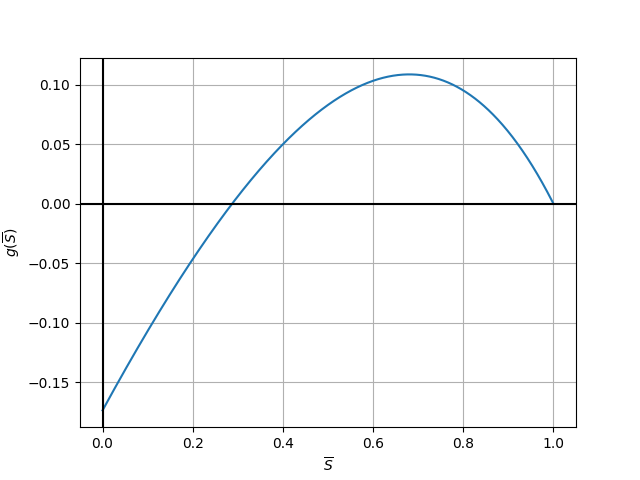
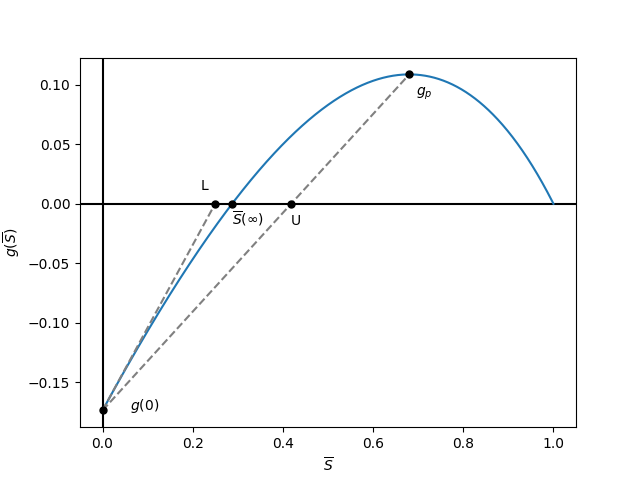
final size

diff --git a/FinalSize.py b/FinalSize.py
@@ -2,6 +2,17 @@ import numpy as np
 import matplotlib.pyplot as plt
 
 
+def zero_searcher(f, left, right):
+	mid = (left + right) / 2
+	for _ in range(20):
+		if f(mid) < 0:
+			left = mid
+		else:
+			right = mid
+		mid = (left + right) / 2
+	return mid
+
+
 def g_plotter():
 	beta = 0.25
 	gamma = 1 / 14
@@ -12,19 +23,40 @@ def g_plotter():
 	def g(S):
 		ret = S - np.exp(-phi * beta / gamma * (1 - S))
 		return ret
+
 	gs = []
 	for S in S_range:
 		gs.append(g(S))
 
+	S_peak = gamma / (phi * beta) * np.log(gamma / (phi * beta)) + 1
+	g_peak = g(S_peak)
+	g_0 = g(0)
+	S_inf = zero_searcher(g, 0, S_peak)
+	upper_bound = (phi * beta + gamma * np.log(gamma / (phi * beta))) / \
+				  (phi * beta + gamma * np.exp(phi * beta / gamma) * ((phi * beta) / gamma - 1 + np.log(
+					  gamma / (phi * beta))))
+	lower_bound = gamma / (np.exp(phi * beta / gamma) * gamma - phi * beta)
+
 	fig = plt.figure()
 	ax1 = fig.add_subplot()
-	ax1.plot(S_range, gs)
 	# ax1.set_aspect('equal')
-	# ax1.set_ylim(-0.3, 0.3)
-	ax1.grid(True, which='both')
-
+	# ax1.grid(True, which='both')
 	ax1.axhline(y=0, color='k')
 	ax1.axvline(x=0, color='k')
+	ax1.plot(S_range, gs)
+	ax1.plot([0, S_peak], [g_0, g_peak], linestyle='--', c='grey')
+	ax1.plot([0, lower_bound], [g_0, 0], linestyle='--', c='grey')
+	ax1.plot(S_peak, g_peak, marker='o', c='k', markersize=5)
+	ax1.plot(0, g_0, marker='o', c='k', markersize=5)
+	ax1.plot(S_inf, 0, marker='o', c='k', markersize=5)
+	ax1.plot(upper_bound, 0, marker='o', c='k', markersize=5)
+	ax1.plot(lower_bound, 0, marker='o', c='k', markersize=5)
+	ax1.annotate(r'$g_p$', (S_peak, g_peak), textcoords="offset points", xytext=(5, -15), ha='left')
+	ax1.annotate(r'$g(0)$', (0, g_0), textcoords="offset points", xytext=(20, 0), ha='left')
+	ax1.annotate(r'$\overline{S}(\infty)$', (S_inf, 0), textcoords="offset points", xytext=(0, -15), ha='left')
+	ax1.annotate(r'U', (upper_bound, 0), textcoords="offset points", xytext=(0, -15), ha='left')
+	ax1.annotate(r'L', (lower_bound, 0), textcoords="offset points", xytext=(-5, 10), ha='right')
+
 	ax1.set_xlabel(r'$\overline{S}$')
 	ax1.set_ylabel(r'$g(\overline{S})$')
 	fig.savefig('g(S).png')
